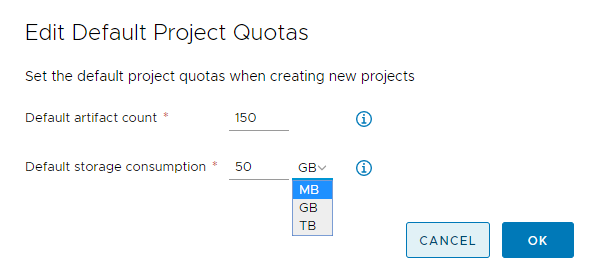
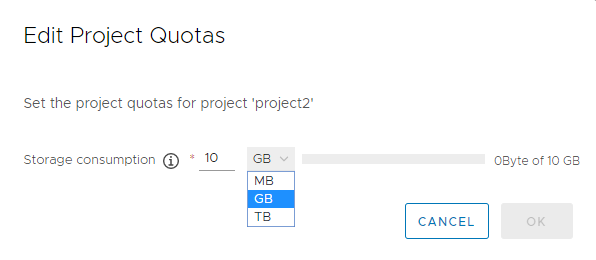
Modify doc and fix some ui bugs

diff --git a/src/portal/src/app/project/webhook/webhook.component.ts b/src/portal/src/app/project/webhook/webhook.component.ts
@@ -11,26 +11,24 @@
 // WITHOUT WARRANTIES OR CONDITIONS OF ANY KIND, either express or implied.
 // See the License for the specific language governing permissions and
 // limitations under the License.
-import { finalize } from "rxjs/operators";
+import { finalize } from 'rxjs/operators';
 import { TranslateService } from '@ngx-translate/core';
 import { Component, OnInit, ViewChild } from '@angular/core';
-import { AddWebhookComponent } from "./add-webhook/add-webhook.component";
-import { AddWebhookFormComponent } from "./add-webhook-form/add-webhook-form.component";
+import { AddWebhookComponent } from './add-webhook/add-webhook.component';
+import { AddWebhookFormComponent } from './add-webhook-form/add-webhook-form.component';
 import { ActivatedRoute } from '@angular/router';
-import { Webhook, LastTrigger } from './webhook';
+import { LastTrigger, Webhook } from './webhook';
 import { WebhookService } from './webhook.service';
-import { MessageHandlerService } from "../../shared/message-handler/message-handler.service";
+import { MessageHandlerService } from '../../shared/message-handler/message-handler.service';
 import { Project } from '../project';
-import {
-  ConfirmationTargets,
-  ConfirmationState,
-  ConfirmationButtons
-} from "../../shared/shared.const";
+import { ConfirmationButtons, ConfirmationState, ConfirmationTargets } from '../../shared/shared.const';
 
-import { ConfirmationMessage } from "../../shared/confirmation-dialog/confirmation-message";
-import { ConfirmationDialogComponent } from "../../shared/confirmation-dialog/confirmation-dialog.component";
-import { clone } from "../../../lib/utils/utils";
-import { forkJoin, Observable } from "rxjs";
+import { ConfirmationMessage } from '../../shared/confirmation-dialog/confirmation-message';
+import { ConfirmationDialogComponent } from '../../shared/confirmation-dialog/confirmation-dialog.component';
+import { clone } from '../../../lib/utils/utils';
+import { forkJoin, Observable } from 'rxjs';
+import { UserPermissionService, USERSTATICPERMISSION } from '../../../lib/services';
+import { ClrLoadingState } from '@clr/angular';
 
 @Component({
   templateUrl: './webhook.component.html',
@@ -53,11 +51,15 @@ export class WebhookComponent implements OnInit {
   loadingMetadata: boolean = false;
   loadingWebhookList: boolean = false;
   loadingTriggers: boolean = false;
+  hasCreatPermission: boolean = false;
+  hasUpdatePermission: boolean = false;
+  addBtnState: ClrLoadingState = ClrLoadingState.DEFAULT;
   constructor(
     private route: ActivatedRoute,
     private translate: TranslateService,
     private webhookService: WebhookService,
-    private messageHandlerService: MessageHandlerService) { }
+    private messageHandlerService: MessageHandlerService,
+    private userPermissionService: UserPermissionService,) { }
 
   ngOnInit() {
     this.projectId = +this.route.snapshot.parent.params['id'];
@@ -67,6 +69,22 @@ export class WebhookComponent implements OnInit {
       this.projectName = project.name;
     }
     this.getData();
+    this.getPermissions();
+  }
+  getPermissions() {
+    const permissionsList: Observable<boolean>[] = [];
+    permissionsList.push(this.userPermissionService.getPermission(this.projectId,
+      USERSTATICPERMISSION.WEBHOOK.KEY, USERSTATICPERMISSION.WEBHOOK.VALUE.CREATE));
+    permissionsList.push(this.userPermissionService.getPermission(this.projectId,
+      USERSTATICPERMISSION.WEBHOOK.KEY, USERSTATICPERMISSION.WEBHOOK.VALUE.UPDATE));
+    this.addBtnState = ClrLoadingState.LOADING;
+    forkJoin(...permissionsList).subscribe(Rules => {
+      [this.hasCreatPermission, this.hasUpdatePermission] = Rules;
+      this.addBtnState = ClrLoadingState.SUCCESS;
+    }, error => {
+      this.messageHandlerService.error(error);
+      this.addBtnState = ClrLoadingState.ERROR;
+    });
   }
 
   getData() {

diff --git a/src/portal/src/app/project/webhook/webhook.component.html b/src/portal/src/app/project/webhook/webhook.component.html
@@ -4,7 +4,7 @@
         <clr-dg-action-bar>
             <div class="clr-row">
                 <div class="clr-col-7">
-                    <button id="new-webhook" type="button" class="btn  btn-secondary" (click)="newWebhook()">
+                    <button [disabled]="!hasCreatPermission" [clrLoading]="addBtnState" id="new-webhook" type="button" class="btn  btn-secondary" (click)="newWebhook()">
                         <clr-icon shape="plus" size="16"></clr-icon>
                         {{'WEBHOOK.NEW_WEBHOOK' | translate}}
                     </button>
@@ -13,7 +13,7 @@
                             <clr-icon class="clr-icon" shape="caret down"></clr-icon></span>
                         <clr-dropdown-menu *clrIfOpen>
                             <button clrDropdownItem (click)="switchWebhookStatus()"
-                                    [disabled]="!(selectedRow && selectedRow.length === 1)">
+                                    [disabled]="!(selectedRow && selectedRow.length === 1) || !hasUpdatePermission">
                                   <span id="toggle-webhook">
                                        <span *ngIf="selectedRow[0] && !selectedRow[0].enabled">
                                            <clr-icon class="margin-top-2" size="16" shape="success-standard"></clr-icon>
@@ -26,13 +26,13 @@
                                   </span>
                             </button>
                             <button clrDropdownItem (click)="editWebhook()"
-                                    class="btn  btn-secondary" [disabled]="!(selectedRow && selectedRow.length === 1)">
+                                    class="btn  btn-secondary" [disabled]="!(selectedRow && selectedRow.length === 1) || !hasUpdatePermission">
                                 <clr-icon class="margin-top-0" size="16" shape="pencil"></clr-icon>
                                 <span id="edit-webhook" class="margin-left-10">{{'BUTTON.EDIT' | translate}}</span>
                             </button>
                             <div class="dropdown-divider"></div>
                             <button clrDropdownItem (click)="deleteWebhook()"
-                                    class="btn  btn-secondary" [disabled]="!(selectedRow && selectedRow.length >= 1)">
+                                    class="btn  btn-secondary" [disabled]="!(selectedRow && selectedRow.length >= 1) || !hasUpdatePermission">
                                 <clr-icon class="margin-top-0" size="16" shape="times"></clr-icon>
                                 <span id="delete-webhook"
                                       class="margin-left-10">{{'BUTTON.DELETE' | translate}}</span>

diff --git a/src/portal/src/app/project/repository/artifact-list-page/artifact-list/artifact-list-tab/artifact-list-tab.component.html b/src/portal/src/app/project/repository/artifact-list-page/artifact-list/artifact-list-tab/artifact-list-tab.component.html
@@ -161,10 +161,20 @@
             <clr-dg-row *ngFor="let artifact of artifactList" [clrDgItem]="artifact" >
                 <clr-dg-cell class="truncated flex-max-width">
                     <div class="cell white-normal">
-                        <img class="artifact-icon" [title]="artifact.type"
+                        <img *ngIf="artifact?.type !== 'IMAGE';else elseBlock" class="artifact-icon" [title]="artifact.type"
                             [src]="artifact.type | selectArtifactIcon" />
-                        &nbsp; &nbsp;
-                        <a href="javascript:void(0)" class="max-width-100" (click)="goIntoArtifactSummaryPage(artifact)"
+                        <ng-template #elseBlock>
+                            <clr-tooltip>
+                                <div clrTooltipTrigger class="level-border">
+                                    <img class="artifact-icon" [title]="artifact.type"
+                                         [src]="artifact.type | selectArtifactIcon" />
+                                </div>
+                                <clr-tooltip-content clrPosition="top-right" clrSize="lg" *clrIfOpen>
+                                    <span>Docker and the Docker logo are trademarks or registered trademarks of Docker, Inc. in the United States and/or other countries.</span>
+                                </clr-tooltip-content>
+                            </clr-tooltip>
+                        </ng-template>
+                        <a href="javascript:void(0)" class="max-width-100 margin-left-5" (click)="goIntoArtifactSummaryPage(artifact)"
                             title="{{artifact.digest}}">
                             {{ artifact.digest  | slice:0:15}}</a>
                         <clr-tooltip *ngIf="artifact?.references && artifact?.references?.length">

diff --git a/src/portal/src/app/project/repository/artifact/artifact-summary.component.html b/src/portal/src/app/project/repository/artifact/artifact-summary.component.html
@@ -14,8 +14,23 @@
         <clr-icon class="rotate-90 arrow-back" shape="arrow" size="36" (click)="onBack()"></clr-icon>
     </div>
     <div class="title-block">
-        <h2 class="custom-h2 center-align-items"><img class="artifact-icon" [title]="artifact.type"
-            [src]="artifact.type | selectArtifactIcon" /> {{artifact?.digest | slice:0:15}} <clr-icon size="25" *ngIf="artifact?.references && artifact?.references?.length" class="icon-folder" shape="folder"></clr-icon></h2>
+        <h2 class="custom-h2 center-align-items">
+            <img *ngIf="artifact?.type !== 'IMAGE';else elseBlock" class="artifact-icon" [title]="artifact.type"
+                 [src]="artifact.type | selectArtifactIcon" />
+            <ng-template #elseBlock>
+                <clr-tooltip>
+                    <div clrTooltipTrigger class="level-border">
+                        <img class="artifact-icon" [title]="artifact.type"
+                             [src]="artifact.type | selectArtifactIcon" />
+                    </div>
+                    <clr-tooltip-content clrPosition="top-right" clrSize="lg" *clrIfOpen>
+                        <span>Docker and the Docker logo are trademarks or registered trademarks of Docker, Inc. in the United States and/or other countries.</span>
+                    </clr-tooltip-content>
+                </clr-tooltip>
+            </ng-template>
+            <span class="margin-left-10px">{{artifact?.digest | slice:0:15}}</span>
+            <clr-icon size="25" *ngIf="artifact?.references && artifact?.references?.length" class="icon-folder margin-left-10px" shape="folder"></clr-icon>
+        </h2>
     </div>
 </div>
 <ng-container *ngIf="!loading">

diff --git a/src/portal/src/app/project/webhook/webhook.component.spec.ts b/src/portal/src/app/project/webhook/webhook.component.spec.ts
@@ -17,6 +17,7 @@ import { AddWebhookFormComponent } from "./add-webhook-form/add-webhook-form.com
 import { InlineAlertComponent } from "../../shared/inline-alert/inline-alert.component";
 import { AddWebhookComponent } from "./add-webhook/add-webhook.component";
 import { ConfirmationDialogComponent } from "../../../lib/components/confirmation-dialog";
+import { UserPermissionService } from '../../../lib/services';
 describe('WebhookComponent', () => {
     let component: WebhookComponent;
     let fixture: ComponentFixture<WebhookComponent>;
@@ -92,6 +93,11 @@ describe('WebhookComponent', () => {
             }
         }
     };
+    const mockUserPermissionService = {
+        getPermission() {
+            return of(true).pipe(delay(0));
+        }
+    };
 
     beforeEach(async(() => {
         TestBed.configureTestingModule({
@@ -118,6 +124,7 @@ describe('WebhookComponent', () => {
                 { provide: WebhookService, useValue: mockWebhookService },
                 { provide: MessageHandlerService, useValue: mockMessageHandlerService },
                 { provide: ActivatedRoute, useValue: mockActivatedRoute },
+                { provide: UserPermissionService, useValue: mockUserPermissionService },
             ]
         })
             .compileComponents();

diff --git a/src/portal/src/app/group/group.component.ts b/src/portal/src/app/group/group.component.ts
@@ -110,8 +110,8 @@ export class GroupComponent implements OnInit, OnDestroy {
       });
       // batchInfo.id = group.id;
       let deletionMessage = new ConfirmationMessage(
-        "MEMBER.DELETION_TITLE",
-        "MEMBER.DELETION_SUMMARY",
+        "GROUP.DELETION_TITLE",
+        "GROUP.DELETION_SUMMARY",
         nameArr.join(","),
         this.selectedGroups,
         ConfirmationTargets.PROJECT_MEMBER,
@@ -185,7 +185,7 @@ export class GroupComponent implements OnInit, OnDestroy {
   }
   get canDeleteGroup(): boolean {
     return (
-      this.selectedGroups.length === 1 &&
+      this.selectedGroups.length >= 1 &&
       this.session.currentUser.has_admin_role
     );
   }

diff --git a/src/portal/src/app/project/repository/artifact/artifact-summary.component.scss b/src/portal/src/app/project/repository/artifact/artifact-summary.component.scss
@@ -21,13 +21,10 @@
 .center-align-items {
     display: flex;
     align-items: center;
-    clr-icon {
-        margin-left: 10px;
-    }
-    img {
-        margin-right: 10px;
-    }
 }
 .artifact-icon {
     width: 25px;
+}
+.margin-left-10px {
+    margin-left: 10px;
 }

diff --git a/src/portal/src/app/project/repository/artifact-list-page/artifact-list/artifact-list-tab/artifact-list-tab.component.scss b/src/portal/src/app/project/repository/artifact-list-page/artifact-list/artifact-list-tab/artifact-list-tab.component.scss
@@ -419,3 +419,6 @@ clr-datagrid {
 .no-border:focus {
   outline: none;
 }
+.margin-left-5 {
+  margin-left: 5px;
+}

diff --git a/docs/administration/configure-project-quotas/_index.md b/docs/administration/configure-project-quotas/_index.md
@@ -3,7 +3,7 @@ title: Configure Project Quotas
 weight: 25
 ---
 
-To exercise control over resource use, as a Harbor system administrator you can set  quotas on projects. You can limit the number of tags that a project can contain and limit the amount of storage capacity that a project can consume. You can set default quotas that apply to all projects globally.
+To exercise control over resource use, as a Harbor system administrator you can set  quotas on projects. You can limit the amount of storage capacity that a project can consume. You can set default quotas that apply to all projects globally.
 
 {{< note >}}
 Default quotas apply to projects that are created after you set or change the default quota. The default quota is not applied to projects that already existed before you set it.
@@ -11,7 +11,7 @@ Default quotas apply to projects that are created after you set or change the de
 
 You can also set quotas on individual projects. If you set a global default quota and you set different quotas on individual projects, the per-project quotas are applied.
 
-By default, all projects have unlimited quotas for both tags and storage use. 
+By default, all projects have unlimited quotas for storage use. 
 
 1. Select the **Project Quotas** view.
 
@@ -20,14 +20,12 @@ By default, all projects have unlimited quotas for both tags and storage use.
 
     ![Project quotas](../../img/project-quota2.png)
 
-    1. For **Default artifact count**, enter the maximum number of tags that any project can contain at a given time, or enter `-1` to set the default to unlimited.
     1. For **Default storage consumption**, enter the maximum quantity of storage that any project can consume, selecting `MB`, `GB`, or `TB` from the drop-down menu, or enter `-1` to set the default to unlimited.  
     ![Project quotas](../../img/project-quota3.png)
 
     1. Click **OK**.
-1. To set quotas on an individual project, click the 3 vertical dots next to a project and select **Edit**.
+1. To set quotas on an individual project, select the project and then click **Edit**.
     ![Project quotas](../../img/project-quota4.png)
-    1. For **Default artifact count**, enter the maximum number of tags that this individual project can contain, or enter `-1` to set the default to unlimited. 
     1. For **Default storage consumption**, enter the maximum quantity of storage that this individual project can consume, selecting `MB`, `GB`, or `TB` from the drop-down menu.
 
 After you set quotas, you can see how much of their quotas each project has consumed.
@@ -36,18 +34,16 @@ After you set quotas, you can see how much of their quotas each project has cons
 
 ### How Harbor Calculates Resource Usage
 
-When setting project quotas, it is useful to know how Harbor calculates tag numbers and storage use, especially in relation to image pushing, retagging, and garbage collection.
+When setting project quotas, it is useful to know how Harbor calculates storage use, especially in relation to image pushing, retagging, and garbage collection.
 
 - Harbor computes image size when blobs and manifests are pushed from the Docker client.
-- Harbor computes tag counts when manifests are pushed from the Docker client.
 
   {{< note >}}
   When users push an image, the manifest is pushed last, after all of the associated blobs have been pushed successfully to the registry. If several images are pushed concurrently and if there is an insufficient number of tags left in the quota for all of them, images are accepted in the order that their manifests arrive. Consequently, an attempt to push an image might not be immediately rejected for exceeding the quota. This is because there was availability in the tag quota when the push was initiated, but by the time the manifest arrived the quota had been exhausted.
   {{< /note >}}
 - Shared blobs are only computed once per project. In Docker, blob sharing is defined globally. In Harbor, blob sharing is defined at the project level. As a consequence, overall storage usage can be greater than the actual disk capacity.
 - Retagging images reserves and releases resources: 
-  -  If you retag an image within a project, the tag count increases by one, but storage usage does not change because there are no new blobs or manifests.
-  - If you retag an image from one project to another, the tag count and storage usage both increase.
+  -  If you retag an image within a project,  the storage usage does not change because there are no new blobs or manifests.
+  - If you retag an image from one project to another, the storage usage will increase.
 - During garbage collection, Harbor frees the storage used by untagged blobs in the project.
-- If the tag count reaches the limit, image blobs can be pushed into a project and storage usage is updated accordingly. You can consider these blobs to be untagged blobs. They can be removed by garbage collection, and the storage that they consume is returned after garbage colletion.
-- Helm chart size is not calculated. Only tag counts are calculated.
+- Helm chart size is not calculated.

diff --git a/docs/working-with-projects/project-configuration/create-robot-accounts.md b/docs/working-with-projects/project-configuration/create-robot-accounts.md
@@ -17,6 +17,7 @@ You can create robot accounts to run automated operations. Robot accounts have t
 
 1. Click **New Robot Account**.
 1. Enter a name and an optional description for this robot account.
+1. Set expiration time for this robot account. If not set, the expiration time of system configuration will be used for this robot account.
 1. Grant permission to the robot account to push images and to push and pull Helm charts.
 
     Robot accounts can always pull images, so you cannot deselect this option.
